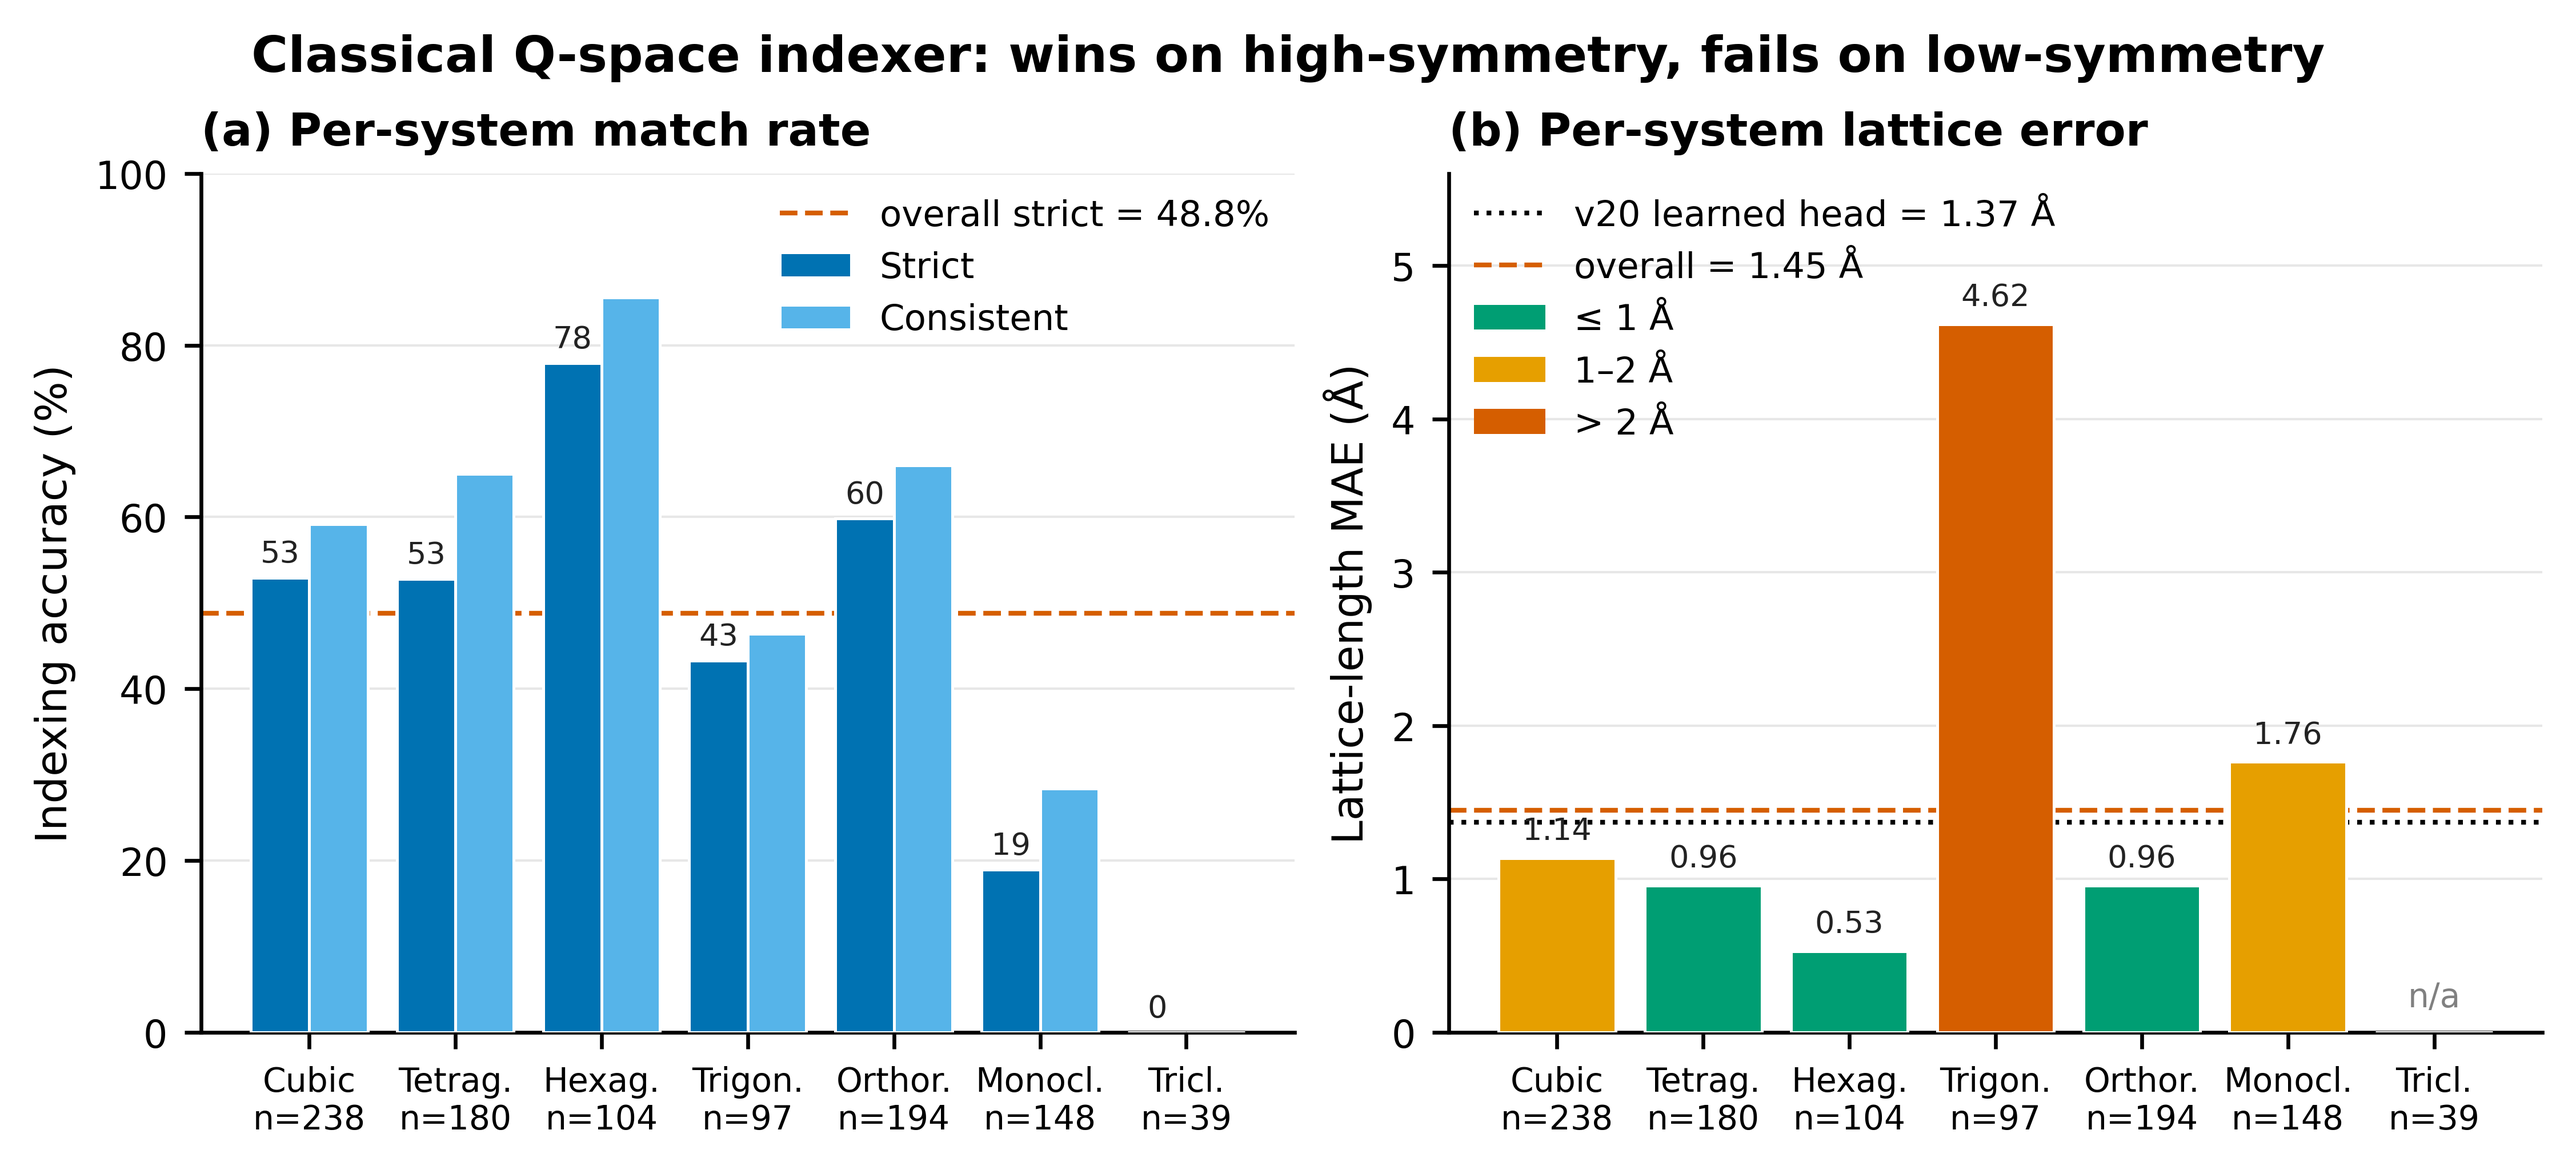
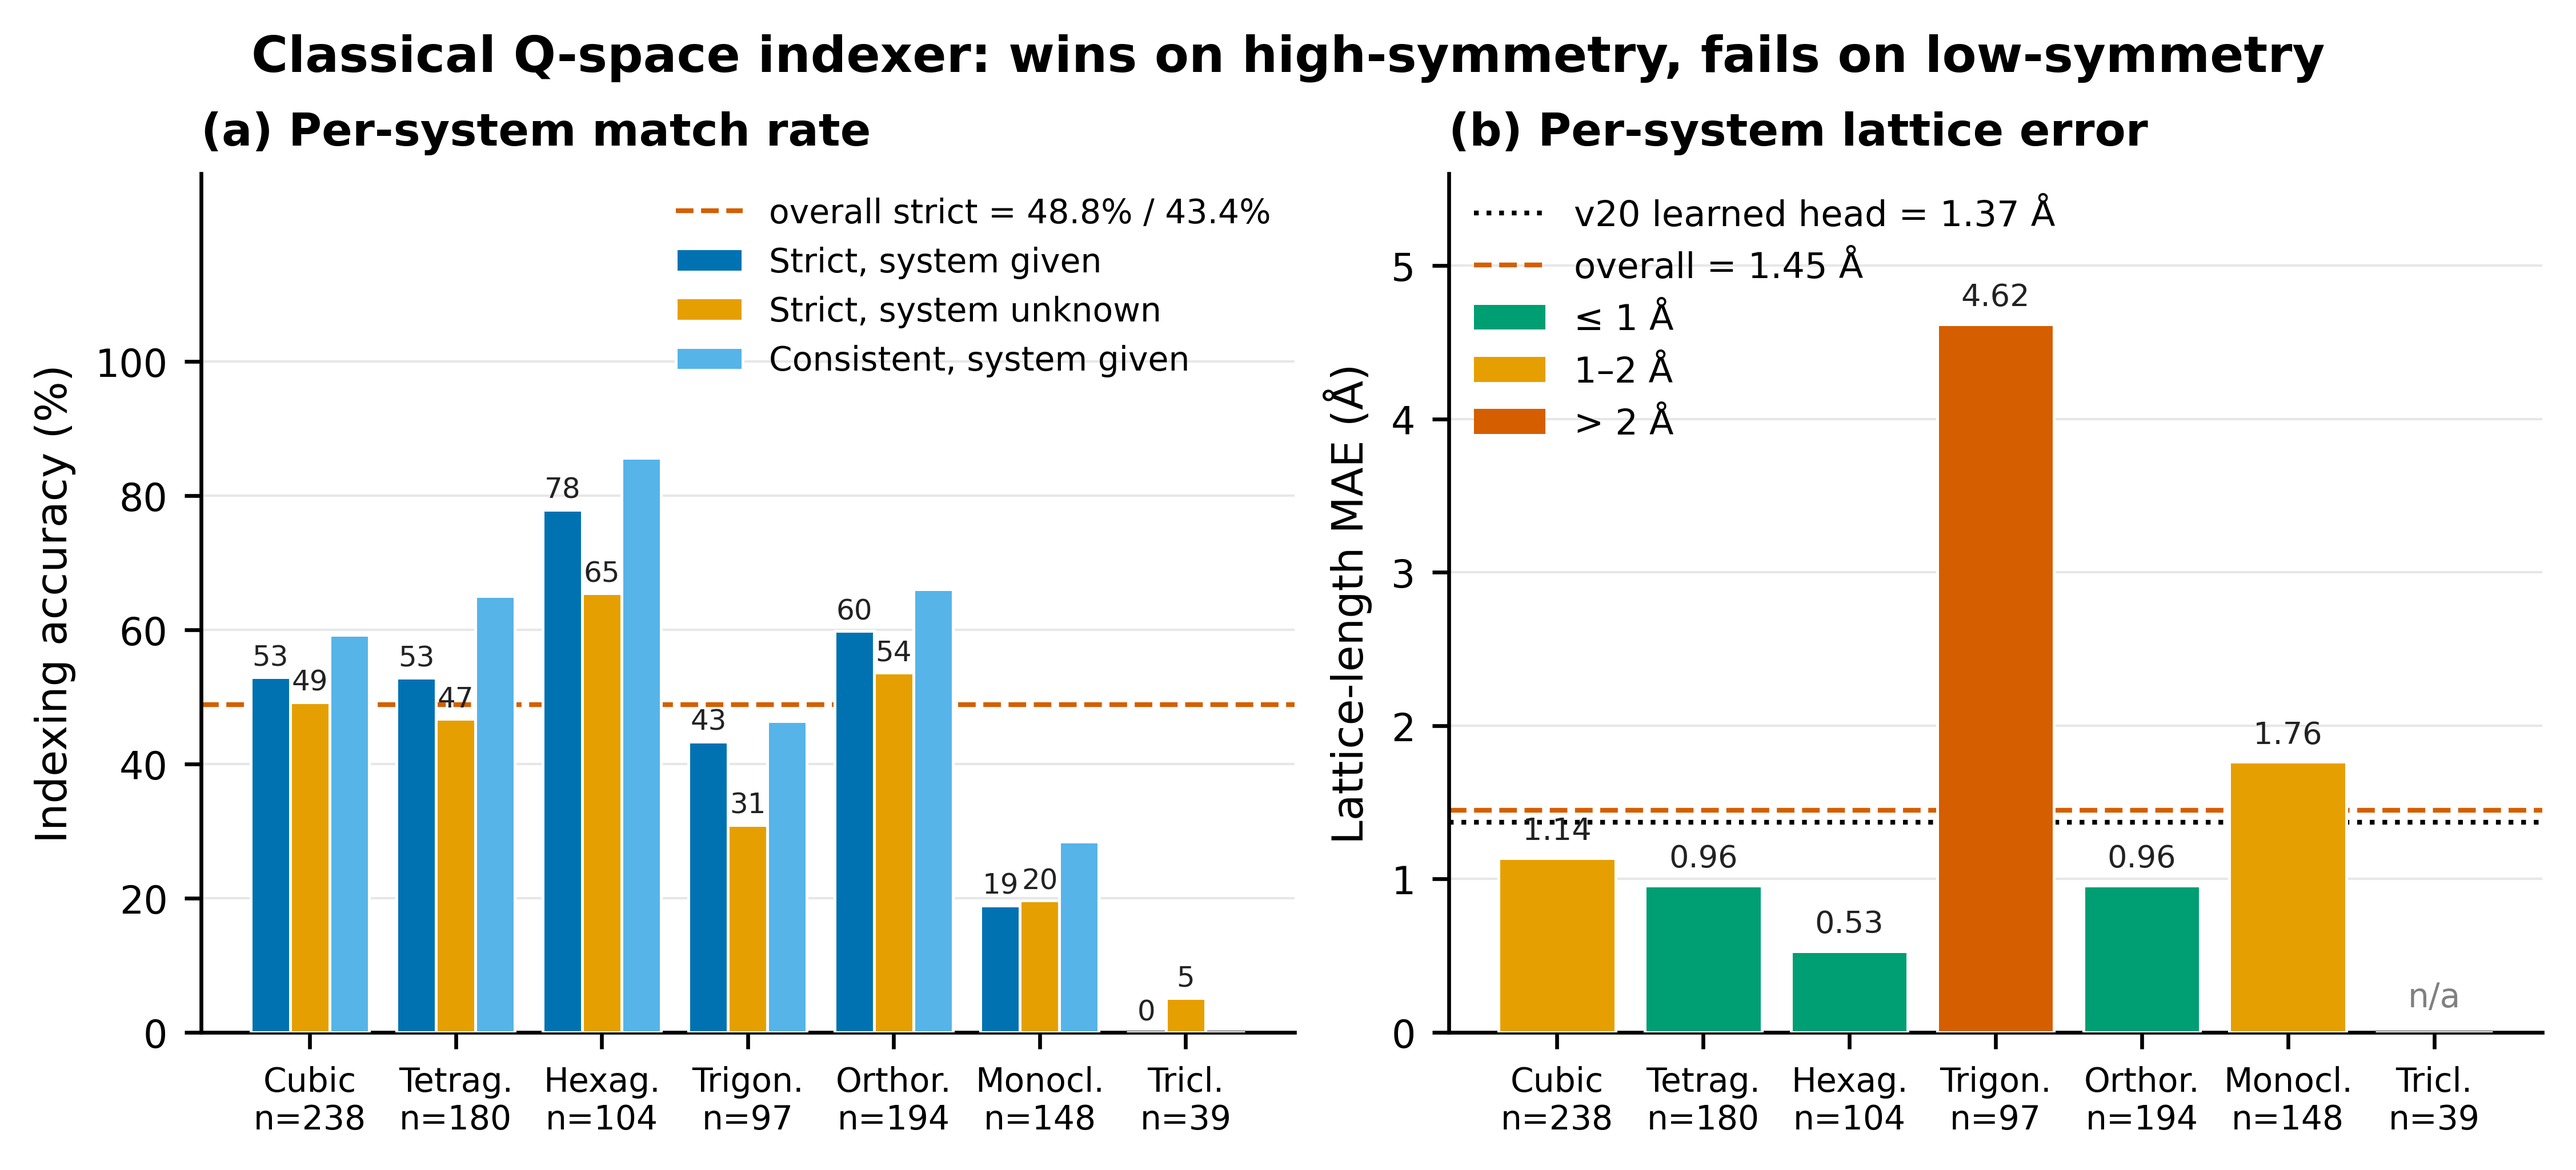
JAC R1: Fig. 3 shows the unknown-system strict rate beside the given-system bars; caption updated

diff --git a/paper/make_figures.py b/paper/make_figures.py
@@ -263,11 +263,15 @@ def fig4_indexer_bench():
     """
     d = json.loads((ROOT / "phase9_results" / "index_benchmark_v2_native.json").read_text())
     ps = d["per_system"]
+    # JAC R1 (referee 1, 5iii): the same benchmark with the crystal system NOT supplied
+    du = json.loads((ROOT / "phase15_results" / "index_cells_test1000_unknown.json").read_text())
+    psu = du["per_system"]
     order = ["cubic", "tetragonal", "hexagonal", "trigonal",
              "orthorhombic", "monoclinic", "triclinic"]
     abbr = ["Cubic", "Tetrag.", "Hexag.", "Trigon.", "Orthor.", "Monocl.", "Tricl."]
     ns = [ps[s]["n"] for s in order]
     strict = [ps[s]["strict_pct"] for s in order]
+    strict_unk = [psu[s]["strict_pct"] if s in psu else 0.0 for s in order]
     consist = [ps[s]["consistent_pct"] for s in order]
     lenmae = [ps[s]["len_mae"] for s in order]
     lenmae_plot = [(v if v == v else 0.0) for v in lenmae]  # NaN (triclinic) -> 0
@@ -277,26 +281,30 @@ def fig4_indexer_bench():
 
     fig, axes = plt.subplots(1, 2, figsize=(7.4, 3.3), constrained_layout=True)
     x = np.arange(len(order))
-    width = 0.4
+    width = 0.27
 
-    # (a) strict / consistent match rate
+    # (a) strict (system given / unknown) and consistent match rate
     ax = axes[0]
-    ax.bar(x - width / 2, strict, width, color=CB["blue"], edgecolor="white",
-           linewidth=0.6, label="Strict", zorder=3)
-    ax.bar(x + width / 2, consist, width, color=CB["skyblue"], edgecolor="white",
-           linewidth=0.6, label="Consistent", zorder=3)
+    ax.bar(x - width, strict, width, color=CB["blue"], edgecolor="white",
+           linewidth=0.6, label="Strict, system given", zorder=3)
+    ax.bar(x, strict_unk, width, color=CB["orange"], edgecolor="white",
+           linewidth=0.6, label="Strict, system unknown", zorder=3)
+    ax.bar(x + width, consist, width, color=CB["skyblue"], edgecolor="white",
+           linewidth=0.6, label="Consistent, system given", zorder=3)
     ax.axhline(overall["overall_strict_pct"], color=CB["red"], lw=1.0, ls="--", zorder=2,
-               label=f"overall strict = {overall['overall_strict_pct']:.1f}%")
+               label=f"overall strict = {overall['overall_strict_pct']:.1f}% / "
+                     f"{du['overall']['overall_strict_pct']:.1f}%")
     ax.set_xticks(x)
     ax.set_xticklabels(ticklabels, fontsize=7)
     ax.set_ylabel("Indexing accuracy (%)")
     ax.set_title("(a) Per-system match rate", loc="left")
-    ax.set_ylim(0, 100)
+    ax.set_ylim(0, 128)          # headroom so the legend clears the hexagonal bars
+    ax.set_yticks([0, 20, 40, 60, 80, 100])
     _ygrid(ax)
-    ax.legend(loc="upper right", borderaxespad=0.3)
-    for i, v in enumerate(strict):
-        ax.text(i - width / 2, v + 1.8, f"{v:.0f}", ha="center", fontsize=6.5,
-                color="#222222")
+    ax.legend(loc="upper right", borderaxespad=0.3, fontsize=7)
+    for i, (v, u) in enumerate(zip(strict, strict_unk)):
+        ax.text(i - width, v + 1.8, f"{v:.0f}", ha="center", fontsize=6, color="#222222")
+        ax.text(i, u + 1.8, f"{u:.0f}", ha="center", fontsize=6, color="#222222")
 
     # (b) lattice-length MAE (Å)
     ax = axes[1]

diff --git a/paper/paper.md b/paper/paper.md
@@ -203,7 +203,7 @@ The discordant cells are *b* = 27 (indexer fixes), *c* = 0 (indexer breaks); an 
 
 What the indexer does *not* do is close the gap to the oracle. We re-ran the oracle at three seeds, firming the single-seed 5.6 % to **4.5 % [3.8, 5.3]** (135 / 3 000 pooled), still disjoint from the indexer's 1.6 % [1.2, 2.1]. The indexer → oracle gap (1.6 → 4.5 %) is itself significant (disjoint CIs) and isolates the lattice-attributable error: even with a perfect lattice, match caps at 4.5 %, so coordinate prediction is the dominant limiter while lattice error explains the 1.6 → 4.5 % shortfall. The indexer's per-system MAE (1.45 Å overall, dominated by mono 1.76 Å and triclinic NaN) sits above the 0.5 Å knee; closing the rest requires fixing the low-symmetry path (GSAS-II remains experimental).
 
-![**Figure 3. Per-system indexer performance.** Strict and consistent indexing rates (a) and length MAE (b) on n = 1 000. High-symmetry systems (hex, ortho) sit below the 0.5 Å knee; trig and mono blow up; triclinic is unindexable in this implementation. The overall 1.45 Å MAE hides two regimes, and explains why the indexer's significant match-rate gain (§5.2) is concentrated entirely in the high-symmetry systems.](fig4_indexer_bench.pdf){#fig:indexer}
+![**Figure 3. Per-system indexer performance.** (a) Strict indexing rate with the crystal system given (blue) and with the system unknown (orange; acceptance rule of §3.5), and the consistent rate with the system given (light blue), on n = 1 000; dashed line, overall strict rate given / unknown. (b) Length MAE with the system given. High-symmetry systems (hex, ortho) sit below the 0.5 Å knee; trig and mono blow up; triclinic is unindexable in this implementation. Removing the crystal system costs a few points in every system except monoclinic and never changes the regime. The overall 1.45 Å MAE hides two regimes, and explains why the indexer's significant match-rate gain (§5.2) is concentrated entirely in the high-symmetry systems.](fig4_indexer_bench.pdf){#fig:indexer}
 
 ### 5.3 Head-to-head with external baselines
 

diff --git a/paper/submissions/JAC-R1/changes_R1.md b/paper/submissions/JAC-R1/changes_R1.md
@@ -79,7 +79,8 @@ citation awaiting verified metadata before it enters the References list.
   accepted by the de Wolff / TREOR / DICVOL rule (all lines indexed, M20 ≥ 10, system from metric symmetry);
   43.4 % strict vs 48.8 % given, lattice type recovered 65.4 %, paired loss 65 / gain 9; the first-pass max-M20
   rule (24.3 %) reported alongside. §1 sentence and §7 bullet (i) updated; refs de Wolff (1968) and Werner
-  et al. (1985) added. `[PENDING C3]` (downstream match, three seeds) remains.
+  et al. (1985) added. `[PENDING C3]` (downstream match, three seeds) remains. Fig. 3 (fig4_indexer_bench)
+  panel (a) gains the system-unknown strict bars and the dual overall line; caption updated.
 - **R3.3c.** Final paragraph: "drop-in in the strongest sense" → "in the mechanical sense"; unindexed
   patterns (39/1000) scored as misses; submitted version's fallback disclosed with pointer to §5.7.
 
